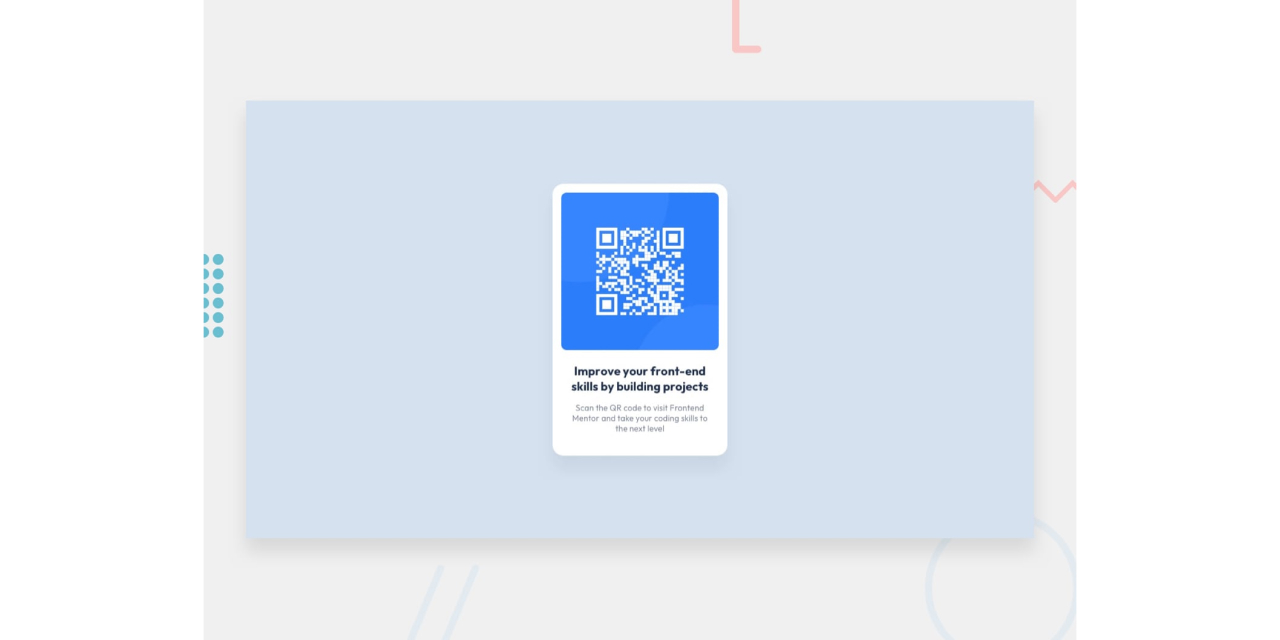
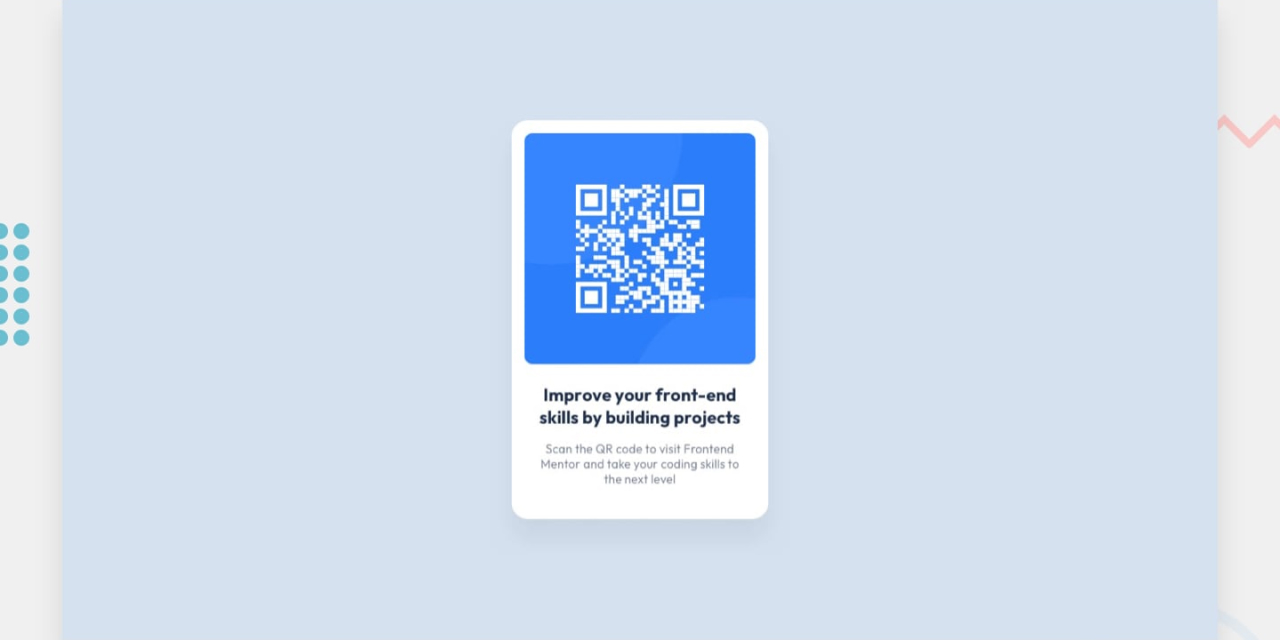
C01 Build a qr-code component.

diff --git a/css/style.css b/css/style.css
@@ -138,7 +138,7 @@ html {
 }
 
 body {
-  background-color: #121417;
+  background-color: #d6e2f0;
   font-family: "Outfit", sans-serif;
   height: 100vh;
   -webkit-box-sizing: border-box;
@@ -160,7 +160,7 @@ body main {
 }
 
 .attribution {
-  color: #191826;
+  color: #1f3251;
   font-size: 11px;
   text-align: center;
   position: absolute;
@@ -178,21 +178,21 @@ body main {
 }
 
 .attribution__text a {
-  color: #191826;
+  color: #1f3251;
   -webkit-transition: all 0.5s ease 0s;
   transition: all 0.5s ease 0s;
   text-decoration: none;
 }
 
 .attribution__text a:hover {
-  color: #d07f15;
+  color: #0061cc;
 }
 
 .grifano-logo {
   display: inline-block;
   border-radius: 2px;
   padding: 4px 4px 2px 4px;
-  color: #191826;
+  color: #fff;
   background-color: #0061cc;
 }
 
@@ -202,70 +202,46 @@ body main {
 }
 
 .container {
-  padding: 32px;
+  max-width: 1110px;
+  margin: auto;
 }
 
-@media (max-width: 375px) {
+@media (max-width: 475px) {
   .container {
-    padding: 24px;
+    padding: 12px;
   }
 }
 
-.show {
-  visibility: visible;
-  opacity: 100%;
+.qr-code {
+  padding: 16px;
+  max-width: 352px;
+  background-color: #ffffff;
+  border-radius: 20px;
+  -webkit-box-shadow: 0px 22px 44px rgba(123, 135, 157, 0.2);
+          box-shadow: 0px 22px 44px rgba(123, 135, 157, 0.2);
 }
 
-.show {
-  visibility: visible !important;
-  opacity: 100% !important;
+.qr-code img {
+  margin-bottom: 16px;
+  border-radius: 8px;
 }
 
-.tooltip {
-  visibility: hidden;
-  opacity: 0;
-  width: 80%;
-  position: absolute;
-  top: -70%;
-  left: 50%;
-  -webkit-transform: translateX(-50%);
-          transform: translateX(-50%);
-  -webkit-box-shadow: 0px 4px 8px rgba(124, 135, 152, 0.2);
-          box-shadow: 0px 4px 8px rgba(124, 135, 152, 0.2);
-  -webkit-transition: all 0.3s ease 0s;
-  transition: all 0.3s ease 0s;
-}
-
-.tooltip__msg {
-  position: relative;
-  display: -webkit-box;
-  display: -ms-flexbox;
-  display: flex;
-  -webkit-box-align: center;
-      -ms-flex-align: center;
-          align-items: center;
-  -webkit-box-pack: center;
-      -ms-flex-pack: center;
-          justify-content: center;
-  font-size: 15px;
-  font-weight: 700;
-  line-height: 19px;
-  padding: 12px 24px;
-  background: #7b879d;
-  border-radius: 15px;
+.qr-code__title, .qr-code__subtitle {
+  max-width: 252px;
+  margin: auto;
+  letter-spacing: 0.1px;
   text-align: center;
-  color: #ffffff;
-  outline: none;
-  border-style: none;
 }
 
-.tooltip__msg::after {
-  content: "";
-  position: absolute;
-  top: 100%;
-  left: 50%;
-  margin-left: -10px;
-  border-width: 10px;
-  border-style: solid;
-  border-color: #7b879d transparent transparent transparent;
+.qr-code__title {
+  font-size: 22px;
+  font-weight: 700;
+  line-height: 28px;
+  margin-bottom: 16px;
+}
+
+.qr-code__subtitle {
+  font-size: 15px;
+  line-height: 19px;
+  margin-bottom: 40px;
 }

diff --git a/scss/style.scss b/scss/style.scss
@@ -2,45 +2,33 @@
 @import "./vars";
 @import "./global";
 
-// UI Control
-.show {
-  visibility: visible !important;
-  opacity: 100% !important;
-}
-.tooltip {
-  visibility: hidden;
-  opacity: 0;
-  width: 80%;
-  position: absolute;
-  top: -70%;
-  left: 50%;
-  transform: translateX(-50%);
-  box-shadow: 0px 4px 8px rgba(124, 135, 152, 0.2);
-  transition: all 0.3s ease 0s;
-  &__msg {
-    position: relative;
-    display: flex;
-    align-items: center;
-    justify-content: center;
-    font-size: 15px;
-    font-weight: 700;
-    line-height: 19px;
-    padding: 12px 24px;
-    background: $mediumgrey;
-    border-radius: 15px;
+.qr-code {
+  padding: 16px;
+  max-width: 352px;
+  background-color: $white;
+  border-radius: 20px;
+  box-shadow: 0px 22px 44px rgba(123, 135, 157, 0.2);
+  img {
+    margin-bottom: 16px;
+    border-radius: 8px;
+  }
+  &__title,
+  &__subtitle {
+    max-width: 252px;
+    margin: auto;
+    letter-spacing: 0.1px;
     text-align: center;
-    color: $white;
-    outline: none;
-    border-style: none;
-    &::after {
-      content: "";
-      position: absolute;
-      top: 100%;
-      left: 50%;
-      margin-left: -10px;
-      border-width: 10px;
-      border-style: solid;
-      border-color: $mediumgrey transparent transparent transparent;
-    }
+  }
+  &__title {
+    font-size: 22px;
+    font-weight: 700;
+    line-height: 28px;
+    margin-bottom: 16px;
+  }
+
+  &__subtitle {
+    font-size: 15px;
+    line-height: 19px;
+    margin-bottom: 40px;
   }
 }

diff --git a/scss/_global.scss b/scss/_global.scss
@@ -17,7 +17,7 @@ body {
 
 // Attribution to author and Frontend Mentor platform
 .attribution {
-  color: $attr_tc;
+  color: $attr_text-color;
   font-size: 11px;
   text-align: center;
   position: absolute;
@@ -30,11 +30,11 @@ body {
   &__text {
     margin-bottom: 4px;
     a {
-      color: $attr_tc;
+      color: $attr_text-color;
       transition: all 0.5s ease 0s;
       text-decoration: none;
       &:hover {
-        color: #d07f15;
+        color: #0061cc;
       }
     }
   }
@@ -43,7 +43,7 @@ body {
   display: inline-block;
   border-radius: 2px;
   padding: 4px 4px 2px 4px;
-  color: $attr_tc;
+  color: $attr_grifano-color;
   background-color: #0061cc;
   span {
     color: #d07f15;
@@ -53,14 +53,9 @@ body {
 
 // Container
 .container {
-  padding: 32px;
-  @media (max-width: 375px) {
-    padding: 24px;
+  max-width: 1110px;
+  margin: auto;
+  @media (max-width: 475px) {
+    padding: 12px;
   }
-}
-
-// UI control
-.show {
-  visibility: visible;
-  opacity: 100%;
 }

diff --git a/index.html b/index.html
@@ -29,9 +29,23 @@
     </header> -->
 
     <main>
-  Improve your front-end skills by building projects
-
-  Scan the QR code to visit Frontend Mentor and take your coding skills to the next level
+      <div class="container">
+        <div class="qr-code">
+          <img
+            width="288"
+            height="288"
+            src="./images/image-qr-code.png"
+            alt="qr code"
+          />
+          <h2 class="qr-code__title">
+            Improve your front-end skills by building projects
+          </h2>
+          <p class="qr-code__subtitle">
+            Scan the QR code to visit Frontend Mentor and take your coding
+            skills to the next level
+          </p>
+        </div>
+      </div>
     </main>
     <!-- <footer class="footer">
       <div class="container"></div>
@@ -54,7 +68,6 @@
         >
       </p>
     </div>
+    <script src="./js/script.js"></script>
   </body>
-
-  <script src="./js/script.js"></script>
-</html
+</html>

diff --git a/scss/_vars.scss b/scss/_vars.scss
@@ -1,5 +1,5 @@
 // Colors
-$bodyBg: hsl(216, 12%, 8%);
+$bodyBg: #d6e2f0;
 
 $primary: hsl(25, 97%, 53%);
 
@@ -10,7 +10,8 @@ $mediumgrey: #7b879d;
 $darkblue: #1f3251;
 
 //Attribution
-$attr_tc: #191826;
+$attr_text-color: #1f3251;
+$attr_grifano-color: #fff;
 
 // Typeface
 @import url("https://fonts.googleapis.com/css2?family=Outfit:wght@400;700&display=swap");
